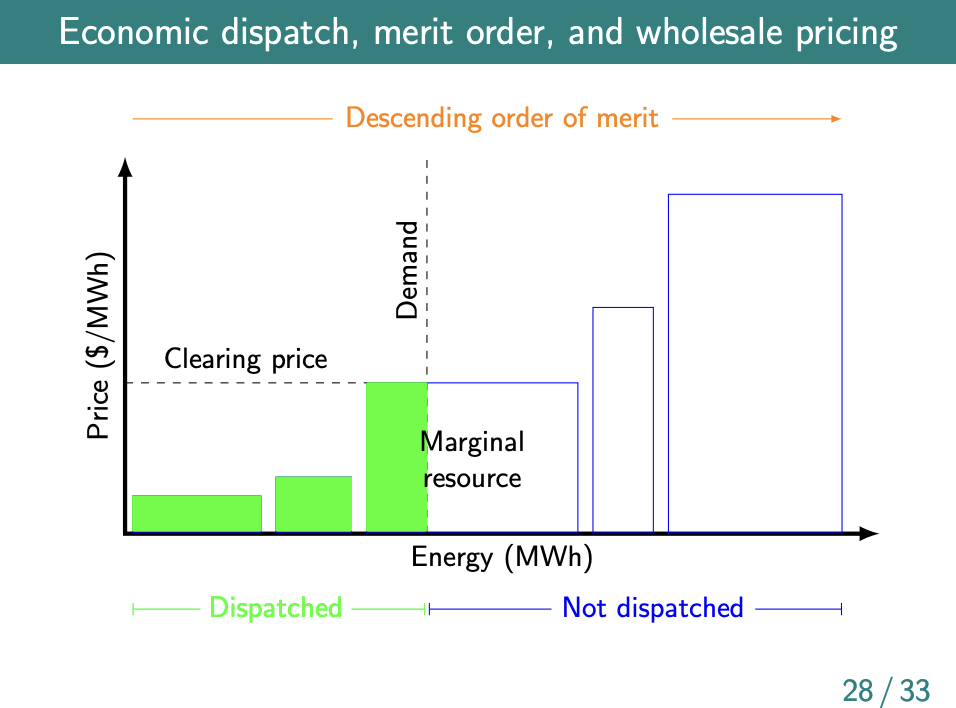
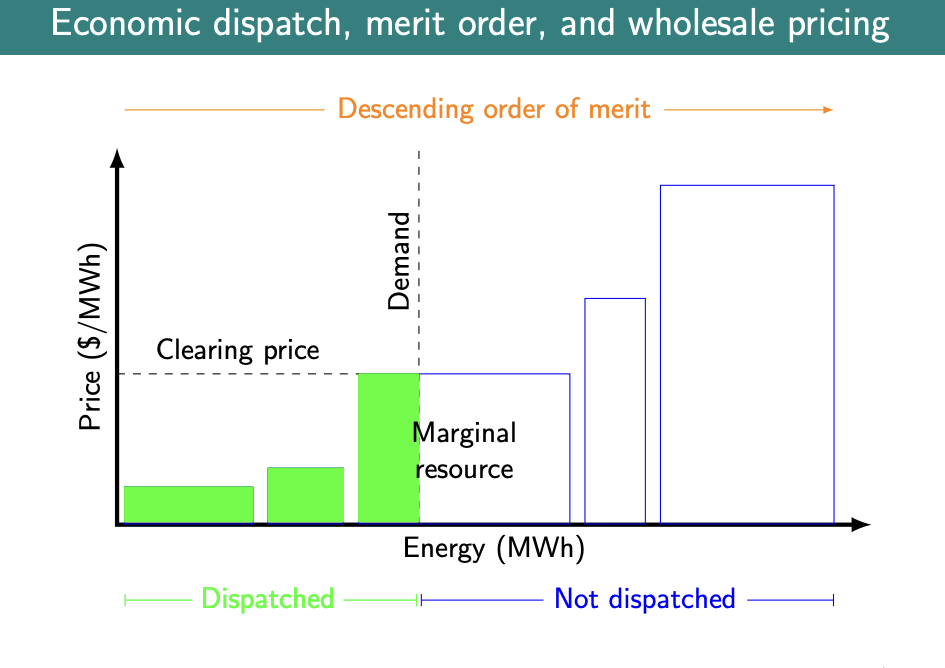
Quartz sync: Jun 3, 2025, 12:02 AM

diff --git a/quartz.config.ts b/quartz.config.ts
@@ -8,7 +8,7 @@ import * as Plugin from "./quartz/plugins"
  */
 const config: QuartzConfig = {
   configuration: {
-    pageTitle: "Green Software",
+    pageTitle: "Climate \\ Energy \\ Software \\ Systems",
     pageTitleSuffix: "",
     enableSPA: true,
     enablePopovers: true,

diff --git a/content/2025-06-01 DER course - 3.md b/content/2025-06-01 DER course - 3.md
@@ -1,0 +1,125 @@
+
+---
+title: "2025-06-01 Distributed Energy Resources - Lecture 3: Linear Ordinary Differential Equations"
+draft: false
+tags:
+  - DERs
+  - Education
+  - Maths
+  - Calculus
+  - Batteries
+  - Modelling
+---
+Other notes in this series:
++ [[2025-05-29 DER course - 1]]
++ [[2025-05-31 DER course - 2]]
+## Summary
+
+  [![[battery_energy_evolution_with_constant_p-chem.png]]](https://kevinjkircher.com/wp-content/uploads/2025/01/der-linear-odes.pdf)
+  
+See [derivations](#Derivation) for solutions to general first-order linear scalar ordinary differential equations (ODEs). I have not missed $\LaTeX$ and mostly wrote this out to keep me honest in working through the derivations.
+
++ **General first order linear scalar ODE**
+	  $\textcolor{red}{x(t^{init}) = x^{init}, \frac{dx(t)}{dt} = a(t)x(t) + b(t)}$
+	  $\text{has the solution }\textcolor{red}{x(t) = \frac{1}{g(t)}[g(t^{init})x^{init} + \int_{t^{init}}^{t}g(\tau)b(\tau)d\tau]}$
+	  $\text{where } \textcolor{red}{g(t) = e^{-\int a(t)dt}}$
++ **If $a$ is a constant, then:**
+	  ${g(t) = e^{-ta}}$
+	  $\text{and }\textcolor{red}{x(t) = e^{(t-t^{init})a}x^{init} + e^{ta}\int_{t^{init}}^te^{-\tau a}b(\tau)d\tau}$
++ **If $b$ is constant and $a\ne0$, then**:
+	  $\textcolor{red}{x(t)= e^{(t-t^{init})a}x^{init} + \frac{b}{a}(e^{ta -t^{init}} - 1)}$
+ 
+Then we derived a simple model of stored chemical energy in a battery:
++ Introduced the concept of $\tau$ (h), the **self-dissipation time constant** - characterises the rate at which a battery loses its stored energy due to internal chemical reactions, even when it's not connected to an external load. This phenomenon is commonly known as self-discharge. It is the time it takes for the battery's charge (or voltage, or capacity) to drop to approximately $1/e$  of its initial value due to self-discharge alone.
++ Introduced the concept of $p^{chem}(t)$ (kW), the **chemical charging power** (or discharging if $p^{chem}(t) < 0$), the rate at which electrical energy is converted into chemical potential energy within the battery during the charging process. It's the portion of the input electrical power that is successfully converted and stored as chemical energy within the battery.
++ If we assume $\tau$ and $p^{chem}$ are constant, then we get
+  $\textcolor{red}{x(t)= e^{-(t-t^{init})/\tau}x^{init} + [1-e^{-(t-t^{init})/\tau}]\tau p^{chem}}$
+### Homework exercise #1
++ Consider the IVP (initial value problem)
+  $x(1) = 1/2, \frac{dx(t)}{dt} = -\frac{2x(t)}{t} + t - 1 + 1/t$
++ write down $a(t)$ and $b(t)$
+	+ $\textcolor{green}{a(t) = -\frac{2}{t}; b(t) = t -1 + 1/t}$
++ find $g(t)$
+	+ $\textcolor{green}{g(t) = e^{-\int a(t)dt} = e^{-\int \frac{-2}{t}dt} = e^{2\int \frac{1}{t}dt} = e^{2\ln|t|}}$
+	+ From $a\ln{b} =\ln{b}^a$:
+	  $\textcolor{green}{g(t) = e^{\ln{t}^2} = t^2}$
++ find $\int_{t^{init}}^t g(\tau)b(\tau)d\tau$
+	+ $\textcolor{green}{\int_{t^{init}}^t \tau^2(\tau -1 + 1/\tau)d\tau = \int_{t^{init}}^t (\tau^3 - \tau^2 +\tau)d\tau}$
+	+ $\textcolor{green}{= (\frac{t^4}{4} - \frac{t^3}{3} +\frac{t^2}{2}) - (\frac{{t^{init}}^4}{4} - \frac{{t^{init}}^3}{3} +\frac{{t^{init}}^2}{2})}$
+	+ $\textcolor{green}{= \frac{t^4}{4} - \frac{t^3}{3} +\frac{t^2}{2} -\frac{1}{4} + \frac{1}{3} -\frac{1}{2}) = \frac{t^4}{4} - \frac{t^3}{3} +\frac{t^2}{2} -\frac{5}{12}}$
++ write down the solution $x(t)$
+	+ $\textcolor{green}{x(t) = \frac{1}{g(t)}[g(t^{init})x^{init} + \int_{t^{init}}^{t}g(\tau)b(\tau)d\tau]}$
+	+ $\textcolor{green}{x(t) = \frac{1}{t^2}[{t^{init}}^2x^{init} + \frac{t^4}{4} - \frac{t^3}{3} +\frac{t^2}{2} -\frac{5}{12}]}$
+	+ $\textcolor{green}{x(t)= \frac{1}{2t^2} +\frac{t^2}{4} - \frac{t}{3} +\frac{1}{2} - \frac{5}{12t^2} = \frac{t^2}{4} - \frac{t}{3} +\frac{1}{2} + \frac{1}{12t^2}}$
+
+## Notes
++ [A quick refresh on vectors and matrices.](https://kevinjkircher.com/wp-content/uploads/2025/01/der-linear-odes.pdf) 
++ A chance to practice some $\LaTeX$.
++ An nth-order ODE is linear if it can be written as
+  $$
+  \frac{d^nx(t)}{dt^n} = a_{n-1}(t)\frac{d^{n-1}x(t)}{dt^{n-1}}+...+a_1(t)\frac{dx(t)}{dt} + a_0(t)x(t) + b(t)
+  $$
+  for some functions $a_0, . . . , a_{n−1}, b : R → R$
++ So 
+	+ $\frac{dx(t)}{dt} = e^{-t}x(t)-3$ is first-order linear, but would be non-linear if it was $x^2(t)$. The thing that matters for linearity is whether there are non-linear functions of $x$
+	+ $\frac{d^2x(t)}{dt^2} = sin(x(t))$ is second-order non-linear because the RHS is not a linear function of $x$
+	+ $\frac{d^3x(t)}{dt^3} = t\frac{dx(t)}{dt} - x(t)$ is third-order linear
++ ==<a id="Derivation">Derive</a> the general solution to the general first-order linear scalar ODE:==
+	+ $x(t^{init}) = x^{init}, \frac{dx(t)}{dt} = a(t)x(t) + b(t)$
+	+ $\text{multiplying by any \textbf{positive} } g : R → R \text{ gives:}$
+		  $g(t) \frac{dx(t)}{dt} - \textcolor{blue}{x(t)a(t)g(t)} = g(t)b(t)$
+	+ $\text{Recall that }\frac{d}{dt}(x(t)g(t)) = \frac{dx(t)}{dt}g(t) + \textcolor{blue}{x(t)\frac{dg(t)}{dt}}$
+	+ $\text{So if }\textcolor{blue}{\frac{dg(t)}{dt} = -a(t)g(t)}\text{, then:}$
+		  $\frac{d}{dt}(x(t)g(t)) = g(t)b(t)$
+	+ Let $\int a(t)dt$ denote an antiderivative of $a$
+	+ Guess $g(t) = e^{-\int a(t)dt}$ => this satisfies $g$ as always positive since $e^z > 0, z\in R$ 
+	+ But does it work?
+		+ $\textcolor{blue}{\frac{dg(t)}{dt}} = \frac{d}{dt}e^{-\int a(t)dt}$
+		+ $= e^{-\int a(t)dt}\frac{d}{dt}(-\int a(t)dt)$
+		+ $=e^{-\int a(t)dt}(-a(t))$
+		+ $=\textcolor{blue}{-a(t)g(t)}\text{ which satisfies our requirement}$
+	+ with $g(t) = e^{-\int a(t)dt}\text{, we have}$
+	  $\frac{d}{dt}(x(t)g(t)) = g(t)b(t)$
+	  $\Rightarrow \int_{t^{init}}^{t}\frac{d}{d\tau}(x(\tau)g(\tau))d\tau = \int_{t^{init}}^{t}g(\tau)b(\tau)d\tau$
+	+ $\Rightarrow x(t)g(t) -x(t^{init})g(t^{init}) = \int_{t^{init}}^{t}g(\tau)b(\tau)d\tau$
+	+ $\Rightarrow x(t) = \frac{1}{g(t)}[g(t^{init})x(t^{init}) + \int_{t^{init}}^{t}g(\tau)b(\tau)d\tau]$
+	+ **General first order linear scalar ODE**
+	  $\textcolor{red}{x(t^{init}) = x^{init}, \frac{dx(t)}{dt} = a(t)x(t) + b(t)}$
+	  $\text{has the solution }\textcolor{red}{x(t) = \frac{1}{g(t)}[g(t^{init})x^{init} + \int_{t^{init}}^{t}g(\tau)b(\tau)d\tau]}$
+	  $\text{where } \textcolor{red}{g(t) = e^{-\int a(t)dt}}$
+	+ **If $a$ is a constant, then:**
+	  ${g(t) = e^{-ta}}$
+	  $\text{and }\textcolor{red}{x(t) = e^{(t-t^{init})a}x^{init} + e^{ta}\int_{t^{init}}^te^{-\tau a}b(\tau)d\tau}$
+	+ **If $b$ is constant and $a\ne0$, then**:
+	  ${x(t) = e^{(t-t^{init})a}x^{init} + e^{ta}.b\int_{t^{init}}^te^{-\tau a}d\tau}$
+	  $\text{since } \int e^{-\tau a}d\tau = \frac{-1}{a}e^{-\tau a}$
+	  ${x(t) = e^{(t-t^{init})a}x^{init} + b\frac{e^{ta}}{a}(-e^{-ta} +e^{-t^{init}a})}$
+	  ${= e^{(t-t^{init})a}x^{init} + \frac{b}{a}(e^{ta -t^{init}} - e^{ta - ta})}$
+	  $\textcolor{red}{x(t)= e^{(t-t^{init})a}x^{init} + \frac{b}{a}(e^{ta -t^{init}} - 1)}$
+	+ Simple model of a battery is
+	  $\frac{dx(t)}{dt} =-\frac{x(t)}{\tau} + p^{chem}(t)$
+	  where:
+		+ $x(t)\in R$ (kWh) is the stored chemical energy
+		+ $\tau > 0$ (h) is the **self-dissipation time constant** - characterises the rate at which a battery loses its stored energy due to internal chemical reactions, even when it's not connected to an external load. This phenomenon is commonly known as self-discharge.
+		  We will see shortly that this is the time it takes for the battery's charge (or voltage, or capacity) to drop to approximately $1/e$ of its initial value due to self-discharge alone.
+		+ $p^{chem}(t)$ (kW) is the chemical charging power (or discharging if $p^{chem}(t) < 0$)
+		+ This is a first order linear ODE with
+			+ $a = -\frac{1}{\tau}$ (constant, so we can use one of the simplified solutions.
+			+ $b=p^{chem}(t)$
+		+ If $p^{chem}(t)$ is constant, we get
+		  $\textcolor{red}{x(t)= e^{-(t-t^{init})/\tau}x^{init} + [1-e^{-(t-t^{init})/\tau}]\tau p^{chem}}$
+		+ As $t\rightarrow\infty, x(t)$ approaches a steady final state $x^{fin}=\tau p^{chem}$
+	+ Can also think of the state of a battery at any time as a mixture of initial and final states:
+		+ any mixture of quantities $z_1$ and $z_2$ can be written as
+		  $\lambda z_1 + (1-\lambda)z2$
+		  where $\lambda \in [0, 1]$
+		+ since $\tau$ is positive, $e^{-(t-t^{init})/\tau} \in [0, 1]$ for all $t \geq t^{init}$
+		+ so with constant $p^{chem}$ the battery IVP solution is
+			  $x(t) = e^{-({t-t^{init}})/\tau}x^{init} + [1-e^{-(t-t^{init})/\tau}]x^{fin}$
+		+ This is a mixture of $x^{init}$ and $x^{fin}$ weighted by $\lambda = $e^{-(t-t^{init})/\tau}$
+	+ Define the normalised gap between $x(t)$ and $x^{fin}$
+	  $y(t) = \frac{x^{fin} - x(t)}{x^{fin} - x^{init}}$
+	  apparently this simplifies to $y(t) = e^{-(t-t^{init})/\tau}$
+	  so after $n$ time constants ($\tau$), $100 \times e^{-n} =$ % remaining
+	  [![[battery_energy_evolution_with_constant_p-chem.png]]](https://kevinjkircher.com/wp-content/uploads/2025/01/der-linear-odes.pdf)
+

diff --git a/content/2025-05-29 DER course - 1.md b/content/2025-05-29 DER course - 1.md
@@ -19,29 +19,11 @@ Like a lot of people I've been DER-pilled by [Volts](https://www.volts.wtf/). [T
 I'd like to know more and will be working through [Kevin Kircher's](https://kevinjkircher.com/) [Distributed Energy Resources](https://kevinjkircher.com/distributed-energy-resources/) class that he has very generously put online. I'll be taking notes and putting summaries up as I go.
 
 ---
+Other notes in this series:
++ [[2025-05-31 DER course - 2]]
++ [[2025-06-01 DER course - 3]]
 ## Summary
 Just the intro so not a lot of detail yet, but a few interesting bits on the recent increase in severe storm damage in the US and the large disparity in the drop in GHG emissions between electricity production and the rest of the economy: agriculture and buildings are flat/up, industry and transport down modestly, and electricity generation is the hero
 
-Other notes in this series:
-+ [[2025-05-31 DER course - 2]]
-## Notes
-+ DERs: controllable electrical devices that plug in at the edge of the grid
-+ There is a range of step-down voltages for customers on the distribution network. From O(10kV) to 120/240V for domestic consumers.
-+ Solar array angle can be such that total daily output is approximately constant between seasons. Tilted more towards sun during winter and consequently less during summer.
-+ Cost for solar has gone down dramatically across the board, BUT utility scale has gone down much more, largely because of bigger decreases in soft costs: tax, profit, labour, and also scaling costs for hardware
-+ Cost ration of ~3:1 for cell:pack in battery cost
-+ EV's are "batteries on wheels" from a modelling perspective.
-+ Up to ~60% increase in demand peak due to EV charging
-+ ![[noaa_billion_dollar_disaster_events_2025.png]]
 
-	![[noaa_bye_bye.png]]
- 
-+ https://public.emdat.be/data has global disaster data sets, but just the data, no graphics.
-+ https://ourworldindata.org/natural-disasters#explore-data-on-natural-disasters uses EM-DAT. https://ourworldindata.org/disaster-database-limitations points out the limitations of EM-DAT including undersampling of smaller disasters in the past, lots of missing data for economic impacts and separately heat deaths, and the difficulty in estimating indirect impacts.
-+ https://ourworldindata.org/us-weather-climate - min temperatures have increased faster than max (so night has increased more than day and winter more than summer), more floods and more droughts
-+ GHG emissions in US well off track for Paris goals by 2050. Agriculture and buildings and flat/up, industry and transport down modestly, but electricity generation is the hero [![[us_total_co2_emissions.png]]](https://kevinjkircher.com/wp-content/uploads/2025/01/der-introduction.pdf)
 
-	[![[us_elec_gen_emissions.png]]](https://kevinjkircher.com/wp-content/uploads/2025/01/der-introduction.pdf)
-
-+ Gas was the main early driver in the drop in electricity generation GHG emissions. Possibly this ignores methane leaks?
-+ 100% green electricity + electrification of private vehicles + heat pumps for industry and homes get us to ~61% reduction

diff --git a/content/2025-05-31 DER course - 2.md b/content/2025-05-31 DER course - 2.md
@@ -9,9 +9,11 @@ tags:
   - Electricity generation
   - Electricity markets
 ---
-Notes from previous lectures:
+Other notes in this series:
 + [[2025-05-29 DER course - 1]]
++ [[2025-06-01 DER course - 3]]
 ## Summary
+[![[us_energy_consumption_sankey.png]]](https://flowcharts.llnl.gov/commodities/energy)
 An overview of real-world energy generation/consumption numbers and then into a little modelling and theory around transmission/distribution efficiencies and costs.
 
 Always good to be reminded about the primary fuel fallacy: fossil fuel consumption typically loses 2/3 of output energy - "rejected energy" . Electrification doesn't need to replace the primary fuel usage, just the (lower equivalent) for an electrified sysstem.

diff --git a/content/index.md b/content/index.md
@@ -2,7 +2,6 @@
 title: What
 ---
 A place for notes on lower carbon computing, green software, computational sustainability, DERs, grid optimisation, and sustainable systems in general.
-
-
+[![[vpp_poster_doe_lo.png]]](https://flowcharts.llnl.gov/commodities/energy)
 
 `Opinions are my own and not necessarily those of my employer`
